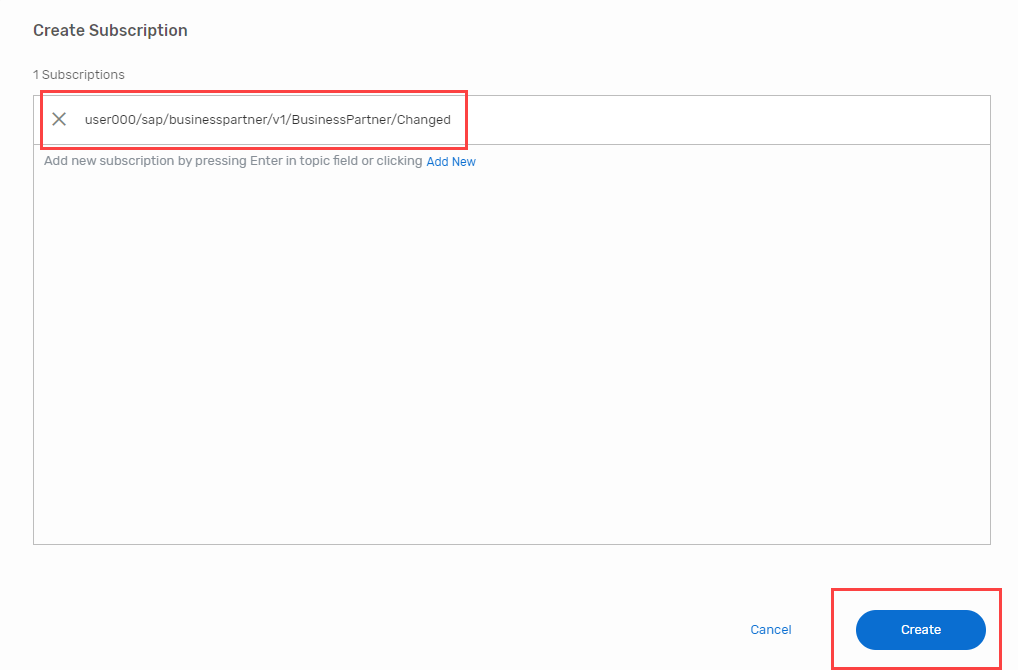
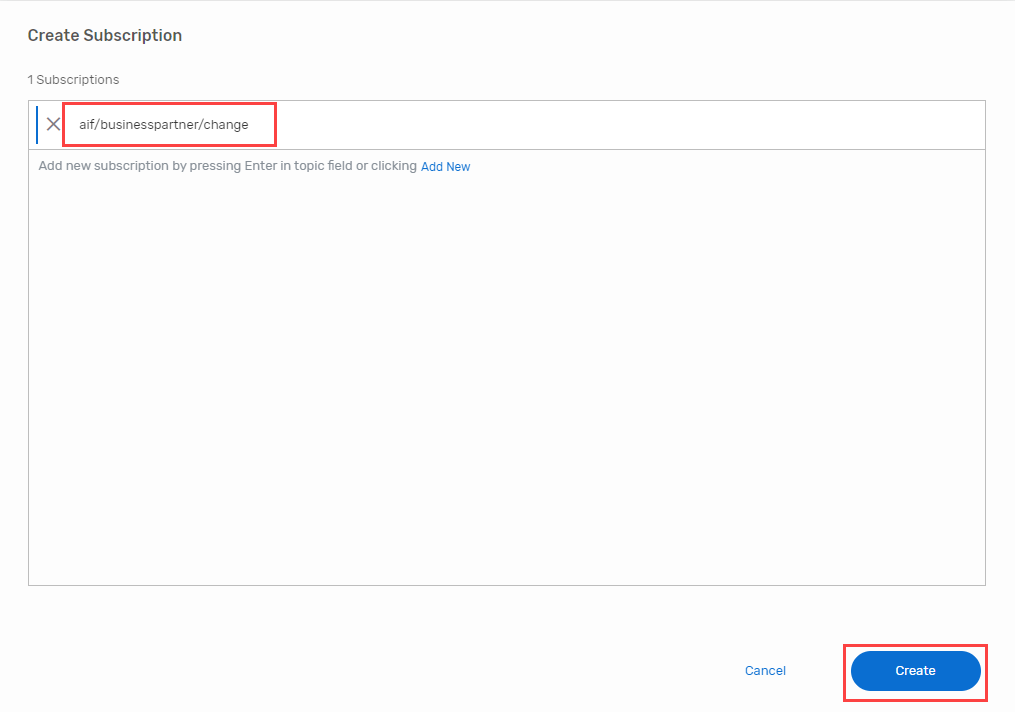
add exercise 2

diff --git a/exercises/ex2/Readme.md b/exercises/ex2/Readme.md
@@ -1,21 +1,18 @@
 ## Exercise 2 Use Cloud Integration capablity for event mediation
-
-In this exercise you will create an Integration Flow which subscribes to the Queue created in exercise 1 via Advanced Event Mesh adapter using the Solace Messaging Format (SMF).
+In this exercise, an Integration Flow is added as a consumer via the Advanced Event Mesh adapter using the Solace Messaging Format (SMF). Integration flows can be used to mediate events, for example, to perform message transformation or protocol conversion steps.
 
 ## 2.1 Setup REST Endpoint
 
-Before we start creating our integrtaion flow, we will need to do a bit of a setup. First, we will "provision" a simple HTTP endpoint, where we will send the message.
+Before we start building our integration flow, we will "provision" a simple HTTP endpoint where we will send the message.
 
 ### webhook.site (HTTP endpoint)
 
-For simplicity purposes, our REST consumer will be a simple HTTP endpoint that will receive the messages from the queue. We will use a tool called [Webhook.site](https://webhook.site/) to create a temporary endpoint that will receive the messages. When you navigate to the website, you will be presented with a unique URL that you can use to receive the messages. Take note of the unique URL as we will use it to configure the REST consumer.
+For simplicity purposes, our REST consumer will be a simple HTTP endpoint that will receive the messages from the queue. We will use a tool called [Webhook.site](https://webhook.site/) to create a temporary endpoint that will receive the messages. When you navigate to the website, you will be presented with a unique URL that you can use to receive the messages. **Take note of the unique URL** as we will use it to configure the REST consumer.
 
 <p align = "center">
     <img alt="webhook.site example" src="images/webhook-site-example.png" width="100%"/><br/>
     <i>webhook.site example</i>
 </p>
-
-
 
 
 
@@ -27,23 +24,64 @@ For simplicity purposes, our REST consumer will be a simple HTTP endpoint that w
 2. Navigate to  <b>Design > Integrations</b>, and select  <b>Create</b>.
   <br>![](./images/ex2-2.png)
    
-2. Fill in following **Name:** user**XXX** where <b>XXX</b> is your user number and a short <b>description</b> eg. "Integration Package for event mediation from User 000". Then click <b>Save</b>.
+3. Fill in following **Name:** User**XXX** where <b>XXX</b> is your user number and a short <b>description</b> eg. "Integration Package for event mediation from User 000". Then click <b>Save</b>.
   <br>![](./images/ex2-3.png)
 
 ## 2.3 Copy & Configure Integration Flow
 
-1. Navigate to  <b>Design > Integrations</b>.
+4. Navigate to  <b>Design > Integrations</b>.
+
+5. Seach for the package "Advanced Event Mesh Exercise - Solution" and select it.
   <br>![](./images/ex2-4.png)
 
-2. Seach for the package "Advanced Event Mesh Exercise - Solution" and select it.
-  <br>![](./images/ex2-5.png)
-
-3. Navigate to tab **"Artifacts"** select the **"Action"-button** and press **"Copy"**
+6. Navigate to tab **"Artifacts"** select the **"Action"-button** and press **"Copy"**
 <br>![](./images/ex2-5.png)
 
-4. Change the name to AEM_to_REST_EventMediation_User**XXX** and replace **XXX** with your user id. Press the **"Select"** button to select the desitnation package.
+7. Change the name to AEM_to_REST_EventMediation_User**XXX** and replace **XXX** with your user id. Press the **"Select"** button to select the package.
+<br>![](./images/ex2-6.png)
 
-5. 
+8. Select the package you created in exercise 2.2.
+<br>![](./images/ex2-7.png)
+
+9. Press **"Copy"**.
+<br>![](./images/ex2-8.png)
+
+10. Press **Navigate** to go directly to the copied package.
+<br>![](./images/ex2-9.png)
+
+11. Click on your integration flow to open it.
+<br>![](./images/ex2-10.png)
+
+12. The flow will subscribe to your queue and performs a simple transformation from JSON to XML format. The result is sent to the HTTP reciever you created in exercise 2.1. Press **Configure** to set the required properties.
+<br>![](./images/ex2-11.png)
+
+13. Provide the name of your queue created in exercise 1: User_**XXX** (replace **XXX** with your user number).
+<br>![](./images/ex2-12.png)
+
+14. Switch to tab **"Receiver"** and provide your unique webhook URL you created in exercise 2.1. Press **"Save"**
+<br>![](./images/ex2-13.png)
+
+15. **Close** the warning message.
+<br>![](./images/ex2-14.png)
+
+16. Press **"Deploy"** to deploy your integration flow.
+<br>![](./images/ex2-15.png)
+
+17. Select Runtime Profile **"Cloud Integration"** and press **"Yes"**. Press **"Ok**" to close the dialog.
+<br>![](./images/ex2-16.png)
+
 
 ## 2.4. Monitor Messages
+18. Navigate to "**Monitor-> Integrations and API**". Open the **"Manage Integration Content"** tile.
+<br>![](./images/ex2-17.png)
 
+19. Search for your integration flow. It should be in **"Started"** status. Press **"Monitor Message Processing"** to view the processed Messages.
+<br>![](./images/ex2-18.png)
+
+20. You should see at least one Messages in the list with Status **"Completed"**.
+<br>![](./images/ex2-19.png)
+
+21. Open the webhook site created in exercise 2.1. Here you should the messages sent from Cloud Integration. Notice the format and structure was slightly changed by the integrtation flow mapping.
+<br>![](./images/ex2-20.png)
+
+Please continue with [Exercise 3](../ex3/README.md)

diff --git a/exercises/ex1/Readme.md b/exercises/ex1/Readme.md
@@ -92,11 +92,11 @@ HINT: If you cannot see the tiles, uncheck the Only show my services box
 
 ![Pic 9](./images/ex1-9.png)  
 
-11. Enter following topic into the field: user**XXX**/sap/businesspartner/v1/BusinessPartner/Changed as the topic, and replace **XXX** with your group/participant number.
+11. Enter following topic into the field: aif/businesspartner/change as the topic.
 
 ![Pic 11](./images/ex1-10.png)  
 
-HINT: Please note that this topic is very simple to facilitate this exercise. In real world scenarios, you can work with topic hierarchies that allow for filtering etc. We will dive into this later.
+HINT: Please note that this topic is very simple to facilitate this exercise. In real world scenarios, you can work with topic hierarchies that allow for filtering etc. 
 
 12. Click on Create
 
@@ -126,23 +126,27 @@ HINT: Please note that this topic is very simple to facilitate this exercise. In
 >Important: If your browser asks to select a certificate for authentication, press "Cancel" otherwise the connection will fail! If you accidentially clicked on a certificate, please restart your browser to show the dialog again.
 ![Pic 17](./images/ex1-17.png)  
 
-20. Enter the topic you subscribed to in step 14: user*XXX*/aif/businesspartner/change (replace *XXX* with your group/participant number)
+20. Choose **"Queue"** and provide the name of the queue creted in step 5: User_**XXX** (replace **XXX** with your user number)
 
-21. Add following body:
+21. Change "Deliver Mode" to **"Persistent** and add following "Message Content":
 ```json
 {
-    "specversion":"1.0",
-    "type":"aif.businesspartner.change",
-    "source":"S4H/100",
-    "datacontenttype":"application/json",
-    "id":"iopoR}Qa7k{IcvkdyZKjsm",
-    "time":"2024-07-23T10:18:11Z",
-    "data":{
-        "BusinessPartner":"0001000489",
-        "LastName":"Doe",
-        "FirstName":"John",
-        "Country":"DE"
-    }
+	"specversion": "1.0",
+	"type": "aif.businesspartner.change",
+	"source": "S4H/100",
+	"datacontenttype": "application/json",
+	"id": "iopoR}Qa7k{IeB7xyLljsm",
+	"time": "2024-07-23T15:09:31Z",
+	"data": {
+		"BusinessPartner": "A10",
+		"LastName": "John",
+		"FirstName": "Doe",
+		"Country": "DE",
+		"City": "Walldorf",
+		"PostCode": "69190",
+		"Street": "Dietmar-Hopp-Allee",
+		"HouseNumber": "16"
+	}
 }
 
 ```

diff --git a/exercises/ex3/Readme.md b/exercises/ex3/Readme.md
@@ -1,0 +1,1 @@
+The publish-subscribe pattern decouples the sending and receiving applications. This makes it easy to add new applications. In this exercise an Integration Flow is added as additional consumer via Advanced Event Mesh adapter using the Solace Messaging Format (SMF).
